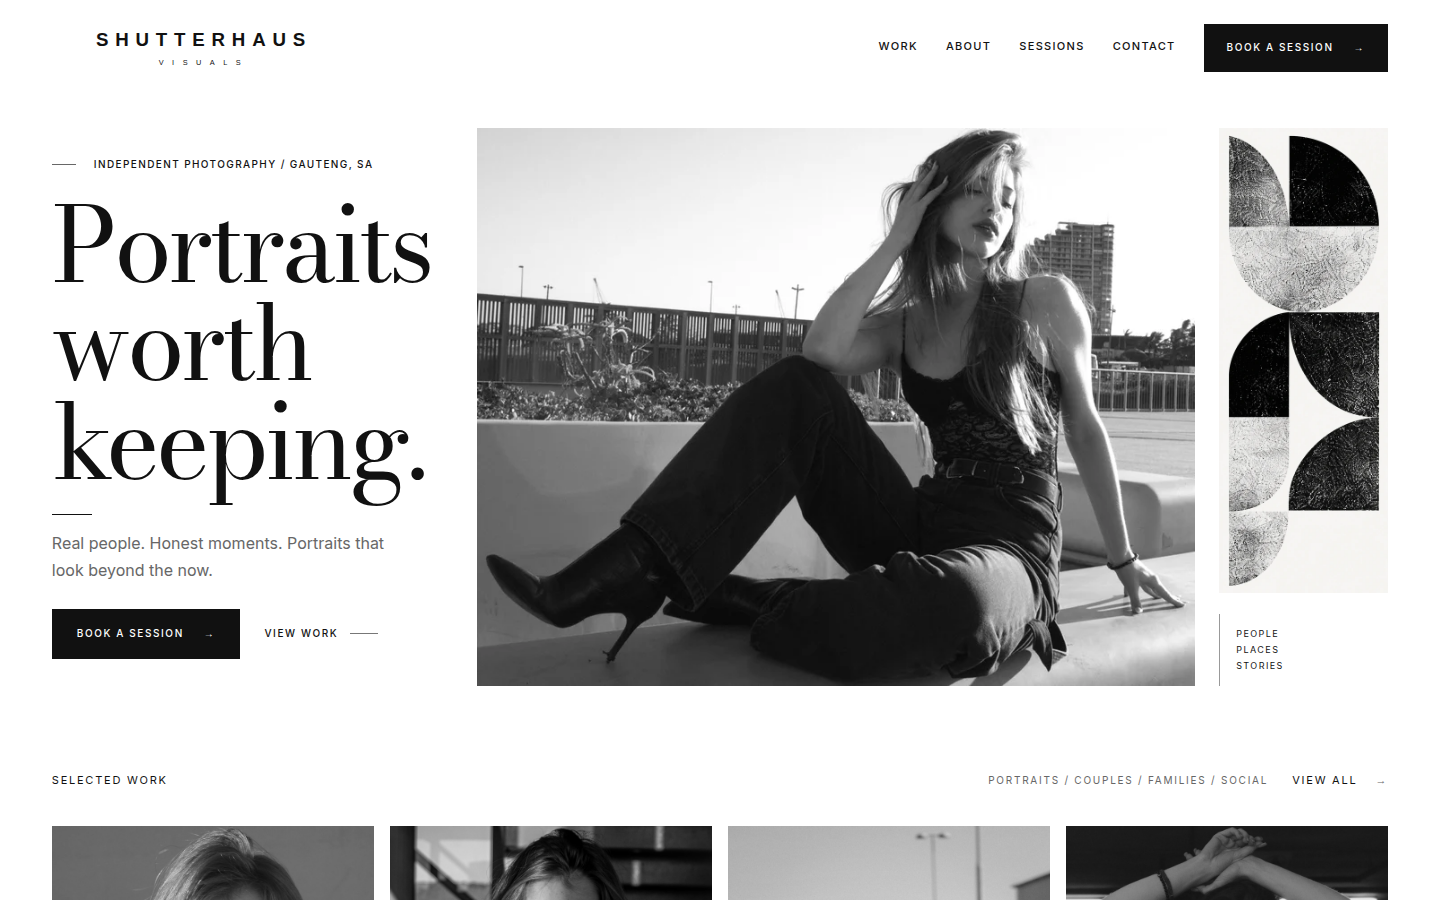
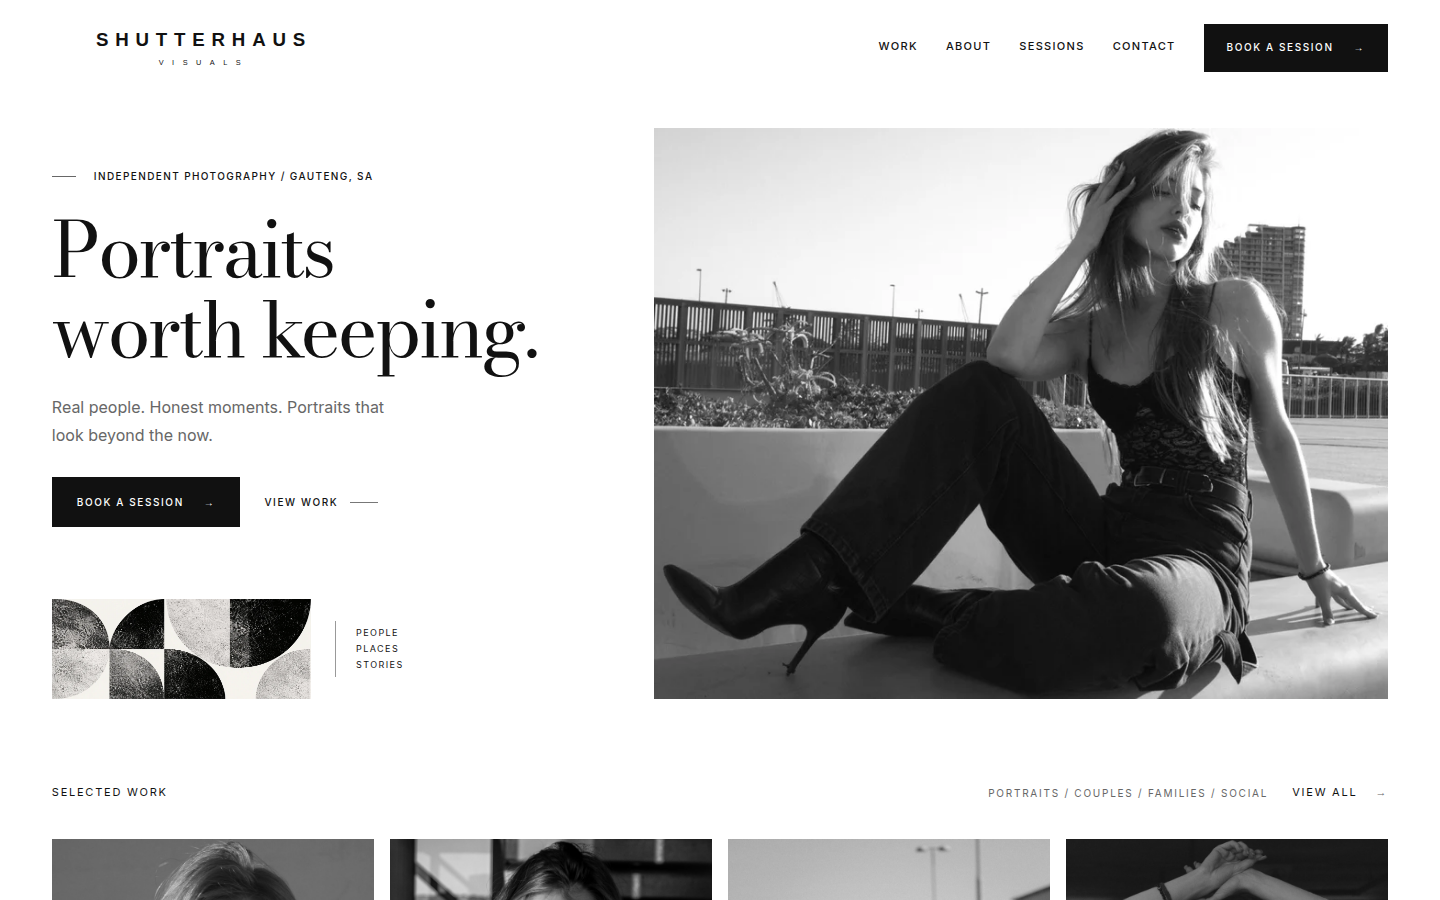
Capture verified desktop hero and unchanged phone presentation

diff --git a/src/DESIGN.md b/src/DESIGN.md
@@ -33,12 +33,14 @@ supports an obvious offer and action; [image-focused design](https://www.nngroup
 supports balancing a strong photograph with navigation and actions. The hero
 remains eager and high priority, following [web.dev LCP guidance](https://web.dev/articles/optimize-lcp).
 
-Capture route `/`: `SCREENSHOT.png` is the 1440×900 desktop viewport;
-`SCREENSHOT-MOBILE.png` is the full phone page at a 390×844 viewport. Capture date
-2026-10-23, from [rendered CI evidence](https://github.com/itsnotalwin/shutterhaus-site/actions/runs/39977888626).
-The captured Home and phone presentation is unchanged by the final inner-page
-artwork-height and Sessions headline-wrap corrections. Desktop and phone views
-of all five public routes were inspected, plus Home at 1920px and About at 1024px.
+Capture route `/`, date 2026-10-23, UI commit `3654d2e`: `SCREENSHOT.png` is the
+1440×900 desktop viewport; `SCREENSHOT-MOBILE.png` is the full phone page at
+viewport 390×844. These are genuine captures from [run 39988308443](https://github.com/itsnotalwin/shutterhaus-site/actions/runs/39988308443).
+The mobile PNG is byte-identical to the preceding reviewed capture, and the
+393px browser comparison is pixel-identical before and after. Home was also
+visually inspected at 1024px, 1920px and in the live desktop browser. The full
+photograph, two-line desktop heading, complete artwork and absence of horizontal
+overflow were confirmed. Header, gallery and inner-page rules remain intact.
 
 Desktop refinement, 2026-10-23: the five live public pages were visually reviewed.
 Inner-page artwork now occupies a proportionate column and centers alongside
@@ -51,17 +53,17 @@ borders; on viewports at least 800px tall its enquiry panel stays in view while
 reading the left column. Footer text is slightly larger. All changes are scoped
 to widths above 1000px; the approved phone/tablet rules remain intact.
 
-Validation: production build and 22 DOM interaction tests pass; the mechanical
-CSS scan has no findings. Release 9dce8cf passed the seven-width public verifier,
-public/admin controls and both Chromium and WebKit photo-layout jobs. Current
-root/source captures replace the 21 October images. The final inner-page
-corrections are checked by the same gated workflow before publication. Local
-Chromium is absent and the cloud browser cannot access the local preview;
+Validation: production build and all 22 DOM interaction tests pass. The CSS
+mechanical scan reports no findings. Run 39988308443 passed the seven-width
+public verifier, public/admin controls, Chromium and WebKit photo-layout jobs,
+GitHub Pages deployment with release-SHA confirmation and live Safari scrolling.
+Local Chromium is absent and the cloud browser cannot access the local preview;
 rendered CI evidence and live public inspection provide visual verification.
-Inherited documentation gaps in untouched folders remain separate backfill work.
+The evidence commit changes documentation and captures only. Inherited folder
+context gaps outside this visual scope remain separate backfill work.
 
 Hero follow-up, 2026-10-23: the owner identified the Home hero as still needing
-work after the broader desktop pass. The current implementation replaces the
-crowded three-column hero with the composition described above. The earlier
-Home captures listed above document the preceding release; new captures and
-rendered breakpoint verification will be recorded after the gated build.
+work after the broader desktop pass. This composition supersedes that pass's
+three-column hero and 112px heading cap; it does not imply owner approval of the
+new result. Preserve the current photograph selection and successful phone
+cover in later refinements.

diff --git a/src/CONTEXT.md b/src/CONTEXT.md
@@ -1,27 +1,19 @@
 # Source context
 
-Owns public rendering, image presentation, navigation, enquiry interactions and
-the separate photo manager. `main.ts` loads shared `styles.css` then public-only
-`public.css`; admin uses `admin.css`. `pages.ts`, `pages-more.ts` and `layout.ts`
-generate page content; `pricing.json` supplies approved package facts.
+Owns public rendering, image presentation, navigation, enquiries and the separate
+photo manager. `main.ts` loads shared `styles.css` then public-only `public.css`;
+admin uses `admin.css`. `pages.ts`, `pages-more.ts` and `layout.ts` render content;
+`pricing.json` supplies approved package facts.
 
-Preserve actual portfolio assets, gallery ordering, focal points, image ratios,
-package terms and form behavior. Desktop hero composition lives in `public.css`
-under `min-width:1001px`, with its photo ratio supplied by `pages.ts`. Phone cover
-styles stay intact; the artwork band preserves its intrinsic ratio and tablets
-also show the horizontal artwork. `lightbox.ts` keeps descriptions in image alt
-attributes and shows position counters instead of visible description captions.
-Regenerate static HTML with `npm run pages`, then run `npm run build` and
-`npm test`. Visually inspect all five public routes and the mobile cover before
-publishing. See `DESIGN.md` for composition and current capture evidence.
+Preserve published photo choices, gallery order, focal points, natural ratios,
+package terms and enquiry behavior. Desktop rules start at `min-width:1001px`.
+Home uses two columns: copy and horizontal brand artwork on the left, complete
+photograph on the right. `pages.ts` marks the second heading break for desktop
+removal and requests the horizontal `motif` variant from `layout.ts`; inner
+pages retain the default responsive artwork. Phones keep the approved cover,
+three-line heading, horizontal artwork band and swipe gallery. Desktop packages
+share eight comparison rows; Contact uses a compact Name/Email row.
 
-Desktop refinements use the existing `min-width:1001px` block: proportionate
-inner-page artwork, an intrinsic About portrait, subgrid package comparison rows,
-and a two-column Contact name/email row. Keep the natural photo ratios and the
-eight package content rows together. Phone/tablet CSS remains unchanged.
-
-The Home desktop hero now uses two columns: copy and horizontal brand artwork on
-the left, full-frame photograph on the right. `pages.ts` marks the second heading
-break for desktop removal and requests the horizontal `motif` variant from
-`layout.ts`. The default motif used by inner pages remains responsive. Keep the
-phone's existing three-line heading and cover layout.
+Regenerate static HTML with `npm run pages`; run `npm run build` and `npm test`.
+Use the existing gated browser checks and inspect actual rendered captures.
+See `DESIGN.md` for current composition, evidence and remaining inherited gaps.

diff --git a/DESIGN.md b/DESIGN.md
@@ -2,20 +2,19 @@
 
 The approved theme is a white editorial frame, Bodoni Moda display type, Inter
 body/UI, monochrome portfolio photography and the supplied geometric artwork.
-Generated HTML lives at the root; author rendering and styles in `src/` and
-regenerate with `npm run build`. Keep the public pages, static fallback and
-hydrated interface visually aligned. The mobile cover and navigation remain the
-baseline; the desktop Home hero pairs the full photo with a two-line heading and clear
-booking path. The complete horizontal artwork grounds the text column. See `src/DESIGN.md` for responsive details.
+Generate the root HTML from `src/`; keep the static and hydrated pages aligned.
 
-Actual capture route `/`, capture date 2026-10-23: `SCREENSHOT.png` at viewport
-1440×900; `SCREENSHOT-MOBILE.png` is a full-page capture at viewport 390×844.
-Both come from the reviewed CI build in run 39977888626. Subsequent corrections
-only constrain the inner-page artwork height and Sessions headline wrapping;
-the captured Home and phone presentation is unchanged. Desktop package details
-share comparison rows; Contact uses a compact name/email row and clearer fields.
+The desktop Home hero uses two columns: a two-line headline, support copy,
+booking controls and complete horizontal artwork on the left; the full
+photograph on the right. White space separates these groups without a competing
+tall artwork column. The mobile cover, three-line heading and swipe gallery
+remain the responsive baseline. See `src/DESIGN.md` for implementation details.
 
-Home hero follow-up, 2026-10-23: two desktop columns replace the tall three-column
-composition. The heading, support copy and controls form a quieter group; the
-existing horizontal artwork sits beneath it. The previous captures above are
-retained until the new build supplies current desktop and phone evidence.
+Actual capture route `/`, date 2026-10-23, UI commit `3654d2e`:
+`SCREENSHOT.png` is the 1440×900 viewport; `SCREENSHOT-MOBILE.png` is a full-page
+capture at viewport 390×844. Both come from [run 39988308443](https://github.com/itsnotalwin/shutterhaus-site/actions/runs/39988308443).
+The mobile PNG is byte-identical to the preceding reviewed capture. Desktop was
+also inspected at 1024px, 1920px and in the live browser. Build, 22 DOM tests,
+seven-width layout/control verification, Chromium and WebKit photo checks,
+deployment and live Safari scrolling all passed. Inner-page layouts and package
+alignment from the preceding desktop pass remain intact.

diff --git a/PROJECT.md b/PROJECT.md
@@ -38,3 +38,10 @@ with the complete photograph; the actual horizontal artwork anchors the left
 column. Desktop-only CSS controls the structural change. Preserve the phone
 cover and the published hero selection. Gated rendered checks follow the local
 build and DOM regressions.
+
+Hero validation: UI commit `3654d2e` and run 39988308443 passed all build,
+interaction, seven-width layout, Chromium, WebKit, deployment and live Safari
+checks. New root/source desktop captures show the two-column hero. The phone
+capture matches the preceding PNG byte for byte. The live desktop hero was
+independently inspected. The evidence follow-up changes documentation and
+screenshots only; it does not change the verified UI.
